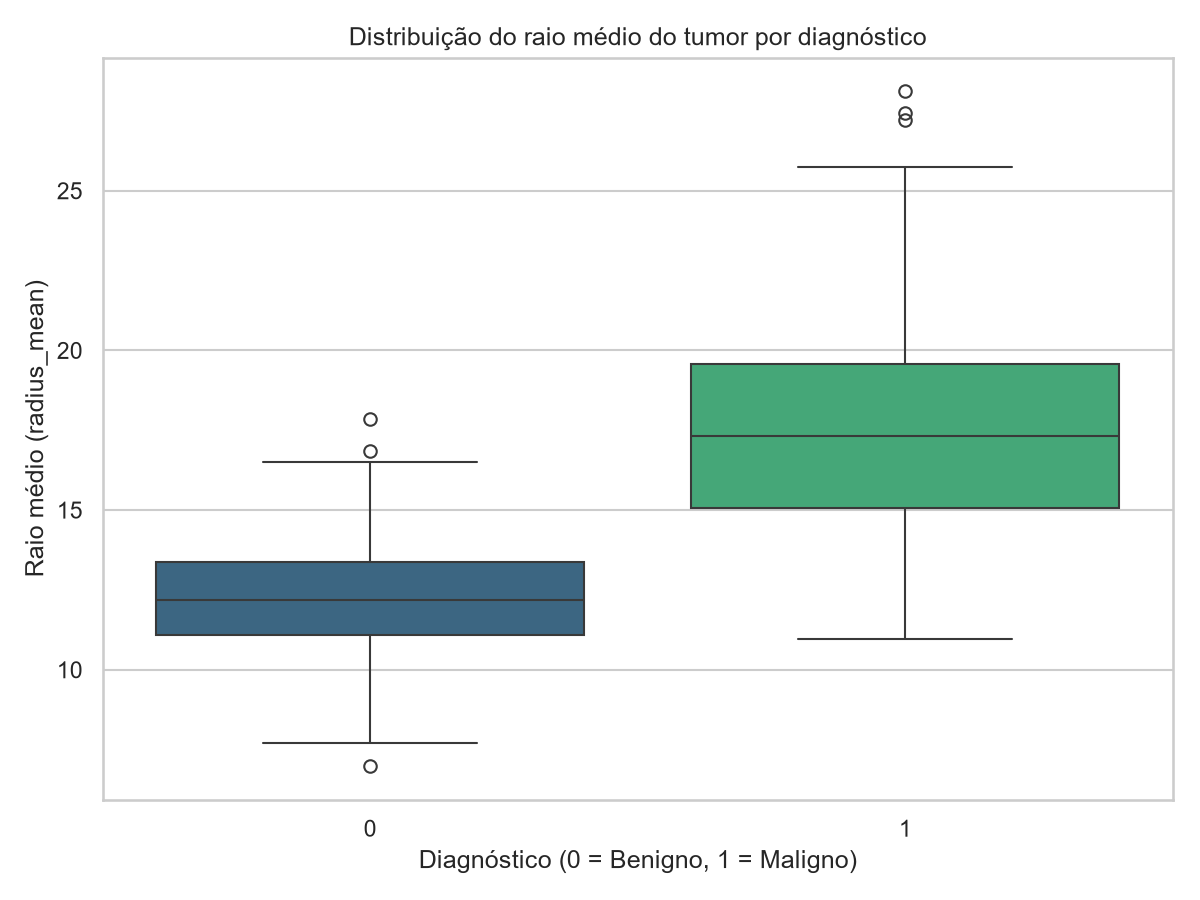
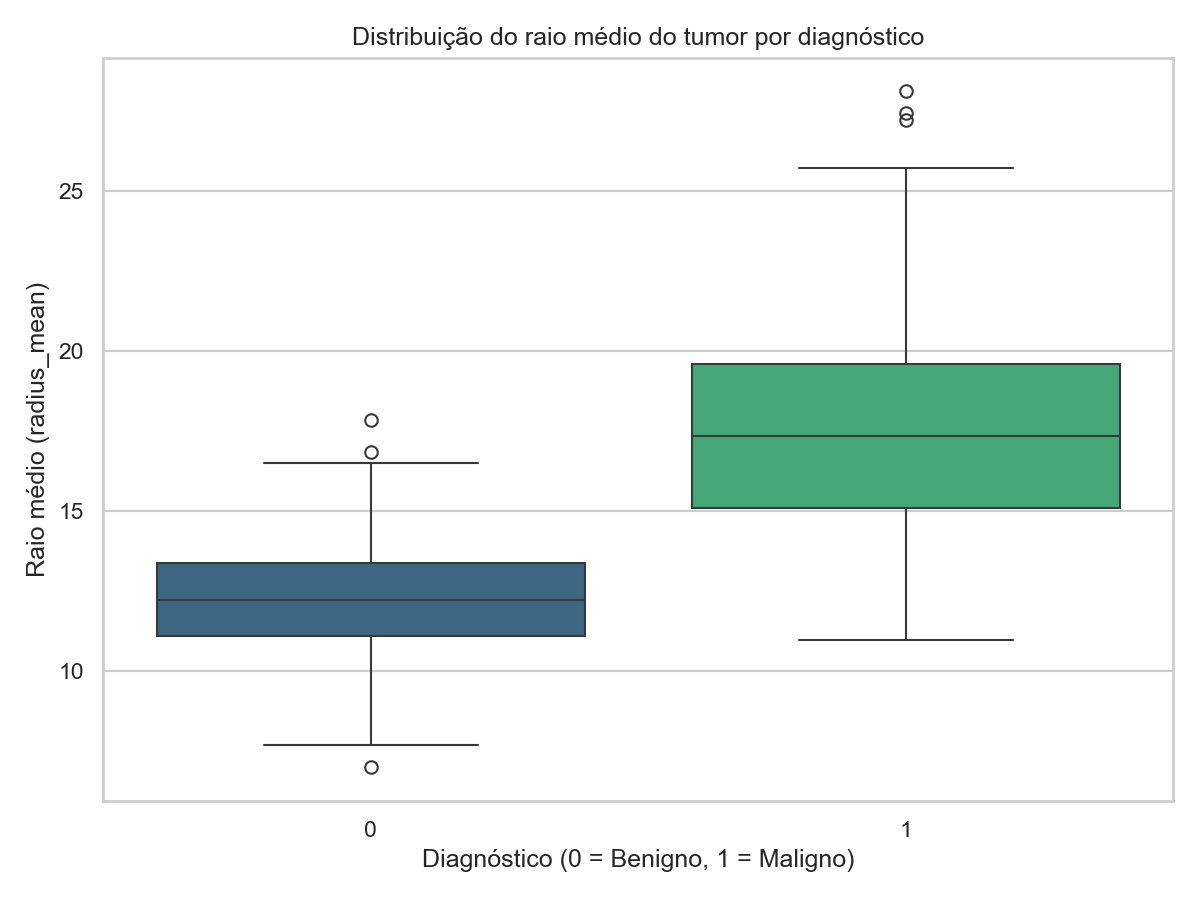
feat inclusão api e documentação

diff --git a/README.md b/README.md
@@ -140,7 +140,7 @@ Isso deve abrir automaticamente uma aba no navegador em
 ```
 Terminal 1 (backend)                 Terminal 2 (frontend)
 ─────────────────────                ─────────────────────
-$env:GEMINI_API_KEY="..."
+$env:GEMINI_API_KEY="AQ.Ab8RN6K8pqqvCKE7-bs7DW2b_kYk_AfMgnEjZHw1CVUJi_SISg"
 python -m uvicorn backend:app
   --reload --port 8000        ──►    python -m streamlit run frontend.py
 (deixe rodando)                      (deixe rodando, abre no navegador)
@@ -203,3 +203,18 @@ projeto completamente):
 2. Reinicie o backend (Ctrl+C no terminal e rode de novo).
 3. O frontend **não precisa de nenhuma mudança de código**, porque os campos
    do formulário são lidos automaticamente do `/schema` do backend.
+
+---
+
+## 📔 Diário de Bordo de Contribuições
+
+### Integrante 1: Pedro Folle
+-  Análise exploratória do dataset Breast Cancer Wisconsin; tratamento de valores ausentes e normalização dos dados; configuração inicial do ambiente Python com dependências.
+-  Implementação e treinamento dos modelos de classificação (KNN, MLP, Naive Bayes); comparação de desempenho; exportação dos artefatos (modelos e scaler) em `.joblib`.
+-  Testes unitários e validação dos modelos; documentação do código da Etapa A; revisão e correção de bugs no treinamento.
+
+### Integrante 2: Maicon Klitzke
+-  Desenvolvimento da API FastAPI com endpoints `/schema`, `/predict` e `/explain`; integração com Gemini API para explicações em linguagem natural.
+-  Criação da interface Streamlit com formulário dinâmico; conexão entre frontend e backend; testes de integração end-to-end.
+- Implementação de tratamento de erros e validação de entrada; ajustes de UI/UX no frontend; documentação completa do README e guia de uso.
+
